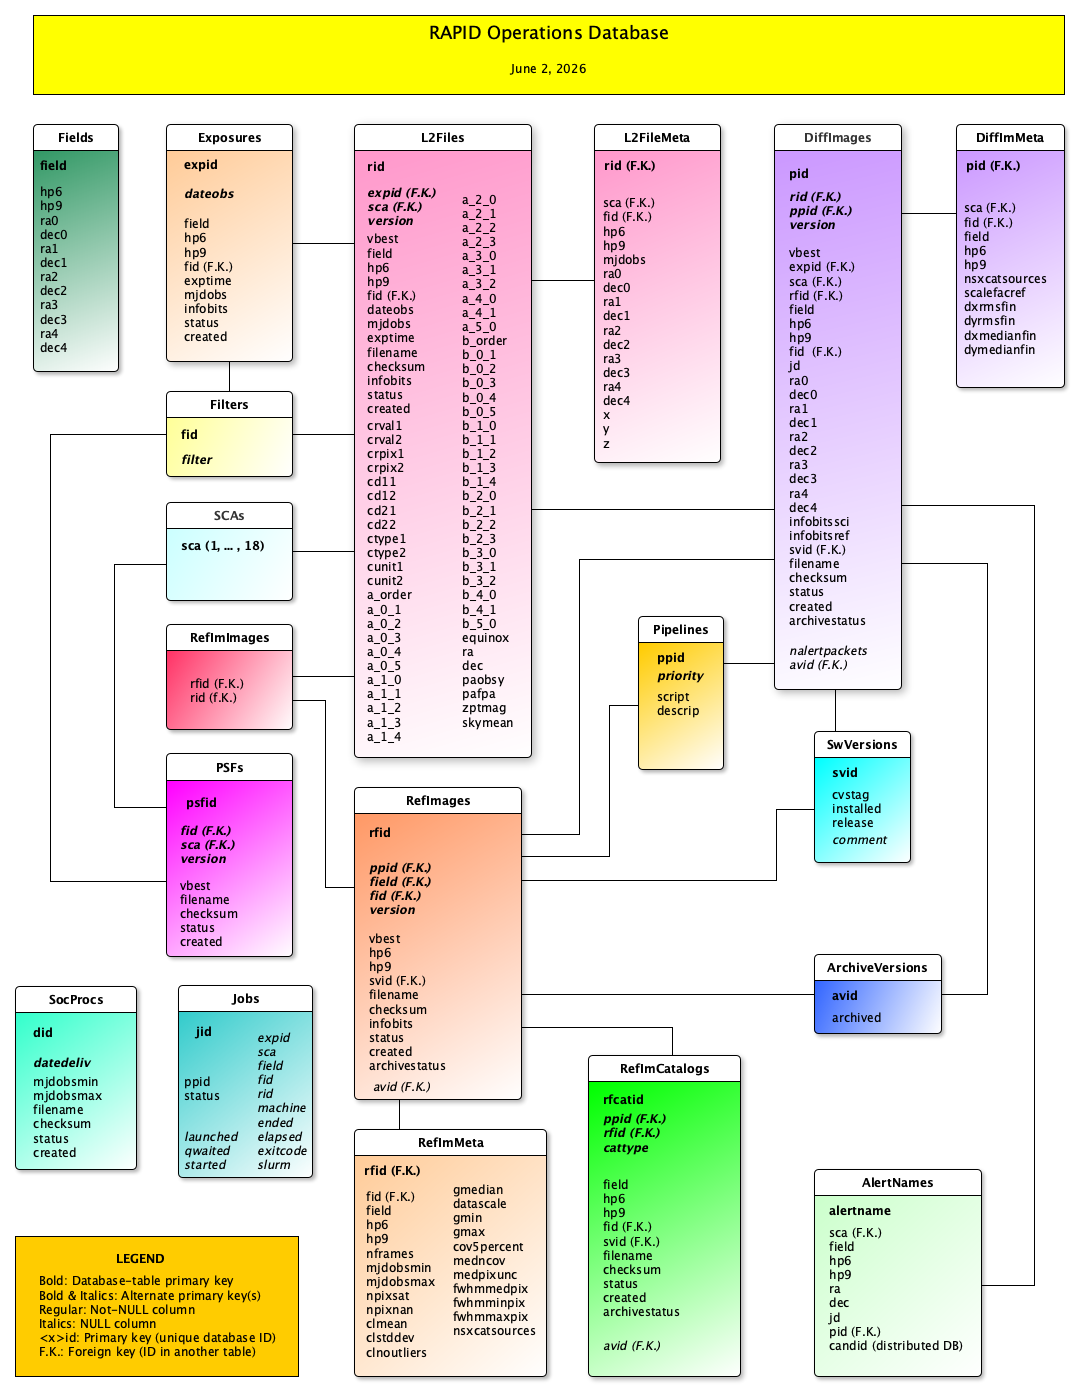
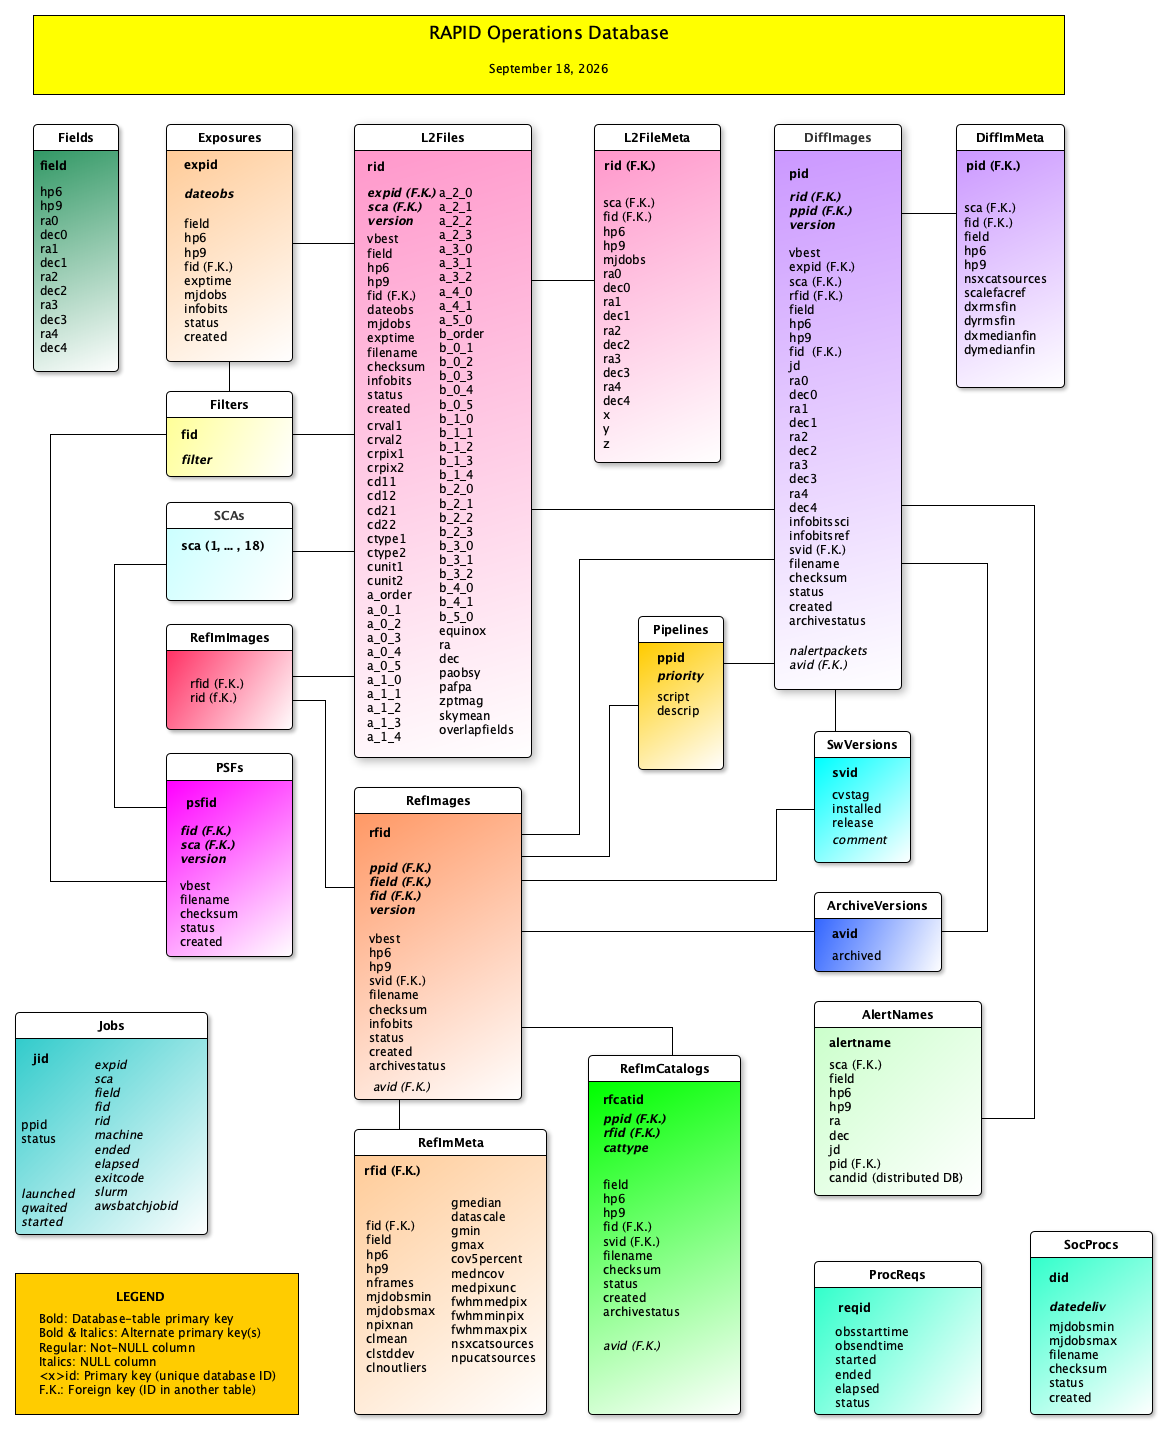
Added new schema diagrams and text for new L2Files.overlapfields and Sources.rb columns.

diff --git a/docs/source/db/db.rst b/docs/source/db/db.rst
@@ -49,6 +49,12 @@ There are multiple provisions for indexing on sky position:
 * Healpix level-9 index (hp9), with an approximate resolution of 0.11 degrees (almost the width of a Roman SCA).
   There are 3,145,728 level-9 indices.
 
+
+The L2Files database table has the ``overlapfields`` int[] column for storing lists of field numbers that a given
+Roman SCA image, with its unique orientation on the sky, for fields that it overlaps.  The algorithm that computes
+the overlapping fields omits fields with less than 25 pixels of overlap.
+
+
 Record Versioning
 ************************************
 
@@ -277,3 +283,8 @@ statistics for ~90 million AstroObjects.
 Because reprocessing generates new product versions (usually latest is best), there are
 separate processes that remove not-best lightcurve data points from the Sources and Merges_<field> database tables,
 and then explicitly clusters, vacuums, and analyzes these database tables.
+
+The Sources database table has the ``rb`` float column for storing real-bogus scores,
+computed from a Machine-Learning algorithm that is optimized for Roman WFI data,
+which is a fractional number in the [0.0, 1.0] range that corresponds to the likelihood
+that a source is real (as opposed to bogus).
